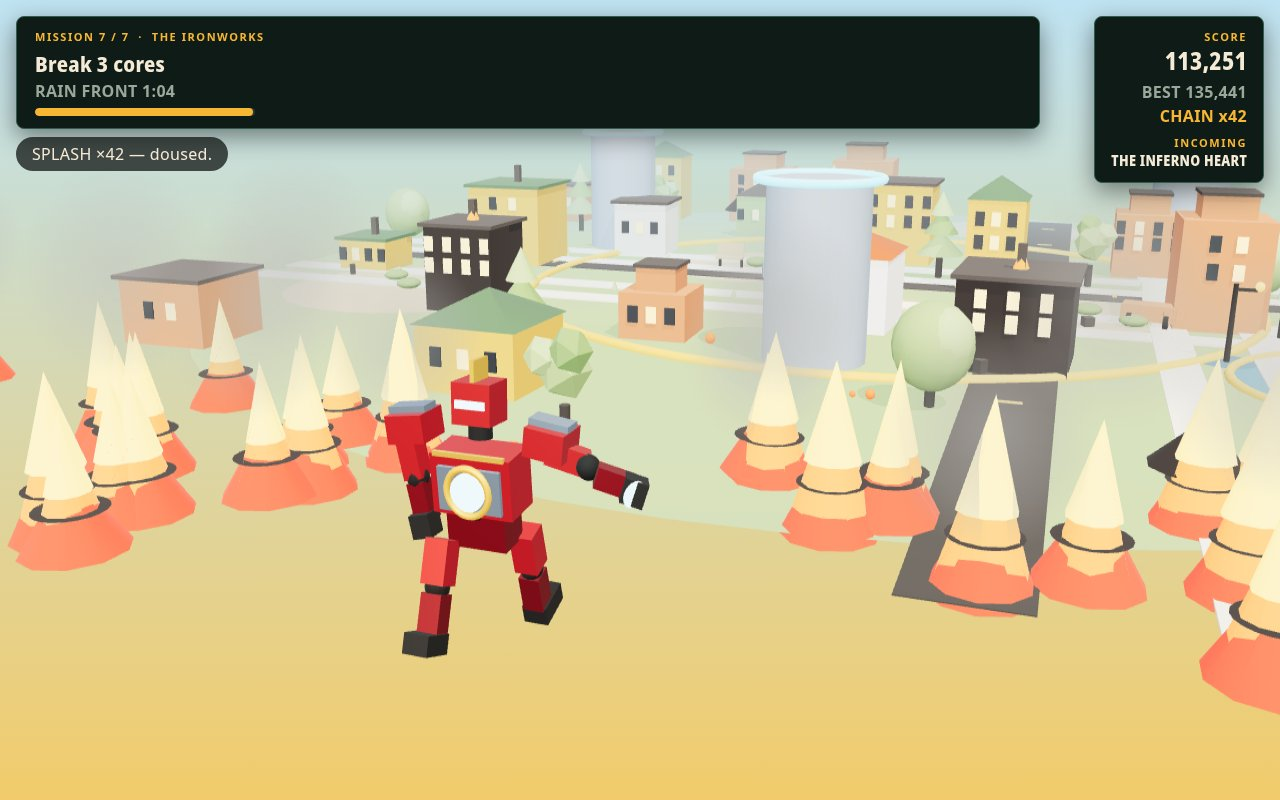
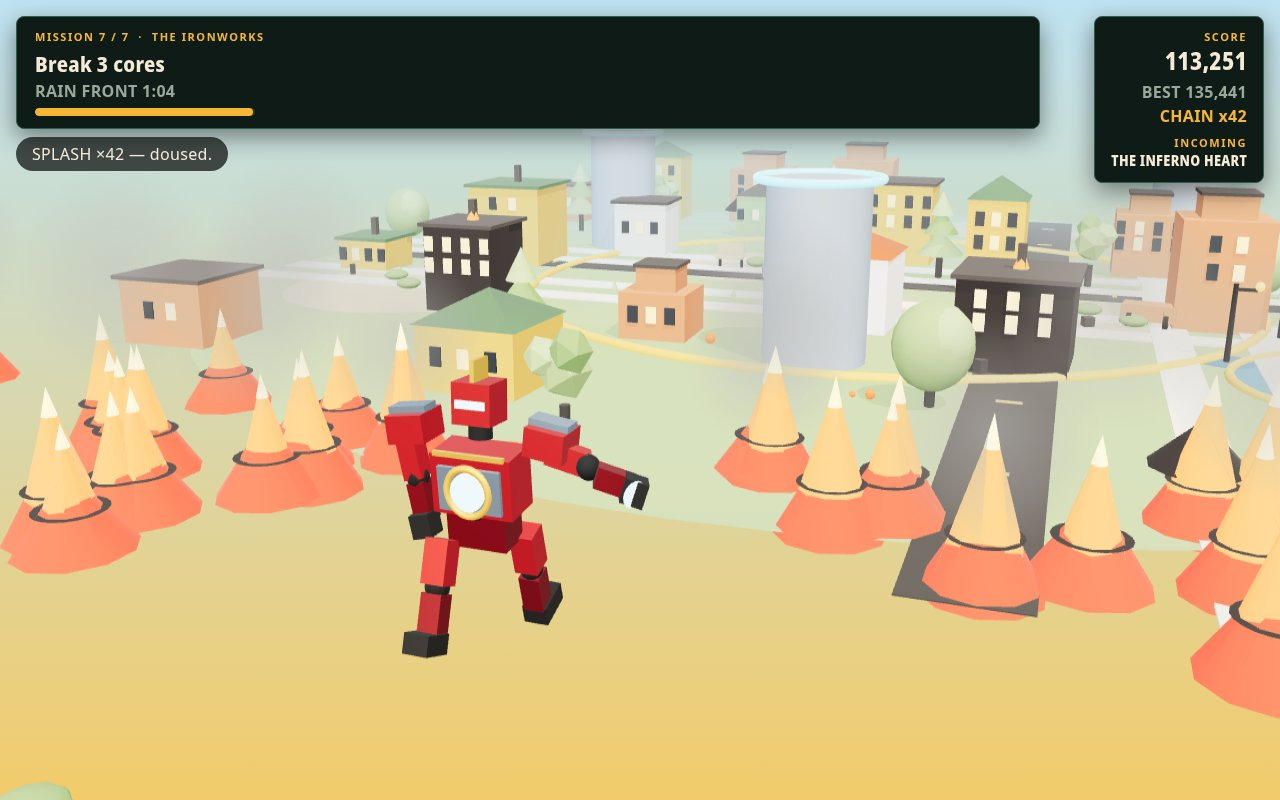
M7f3b flame emissive down (deeper orange, less ACES wash)

diff --git a/game/src/fire3d.js b/game/src/fire3d.js
@@ -14,14 +14,14 @@ export function buildFire(scene, PALETTE) {
   // Four nested cones per flame: OUTER ember cone is the parent group; MID fire,
   // INNER gold, and CORE skyWarm cones are children. Base is a charcoal scorch.
   const outerMat = new THREE.MeshStandardMaterial({
-    color: PALETTE.ember, emissive: PALETTE.ember, emissiveIntensity: 1.8,
+    color: PALETTE.ember, emissive: PALETTE.ember, emissiveIntensity: 1.4,
     transparent: true, opacity: 1.0,
   });
   const midMat = new THREE.MeshStandardMaterial({
-    color: PALETTE.fire, emissive: PALETTE.fire, emissiveIntensity: 2.5,
+    color: PALETTE.fire, emissive: PALETTE.fire, emissiveIntensity: 1.4,
   });
   const innerMat = new THREE.MeshStandardMaterial({
-    color: PALETTE.gold, emissive: PALETTE.gold, emissiveIntensity: 1.6,
+    color: PALETTE.gold, emissive: PALETTE.gold, emissiveIntensity: 1.2,
   });
   const coreMat = new THREE.MeshStandardMaterial({
     color: PALETTE.skyWarm, emissive: PALETTE.skyWarm, emissiveIntensity: 3.5,
@@ -78,7 +78,7 @@ export function buildFire(scene, PALETTE) {
 
   // --- Ember wisp pool -------------------------------------------------------
   const wispMat = new THREE.MeshStandardMaterial({
-    color: PALETTE.fire, emissive: PALETTE.ember, emissiveIntensity: 1.8,
+    color: PALETTE.fire, emissive: PALETTE.ember, emissiveIntensity: 1.4,
   });
   const wisps = [];
   for (let i = 0; i < WISP_COUNT; i += 1) {
